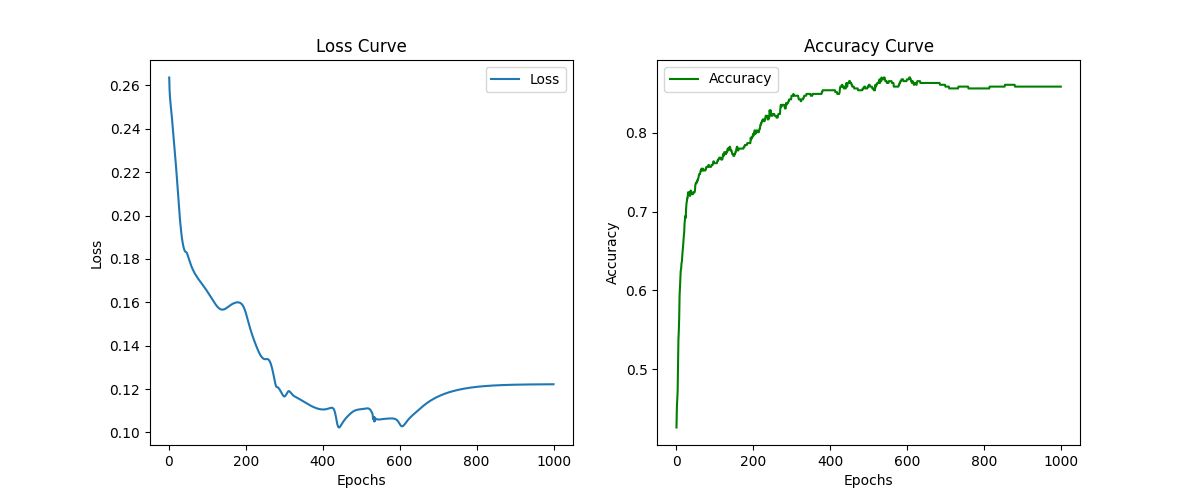
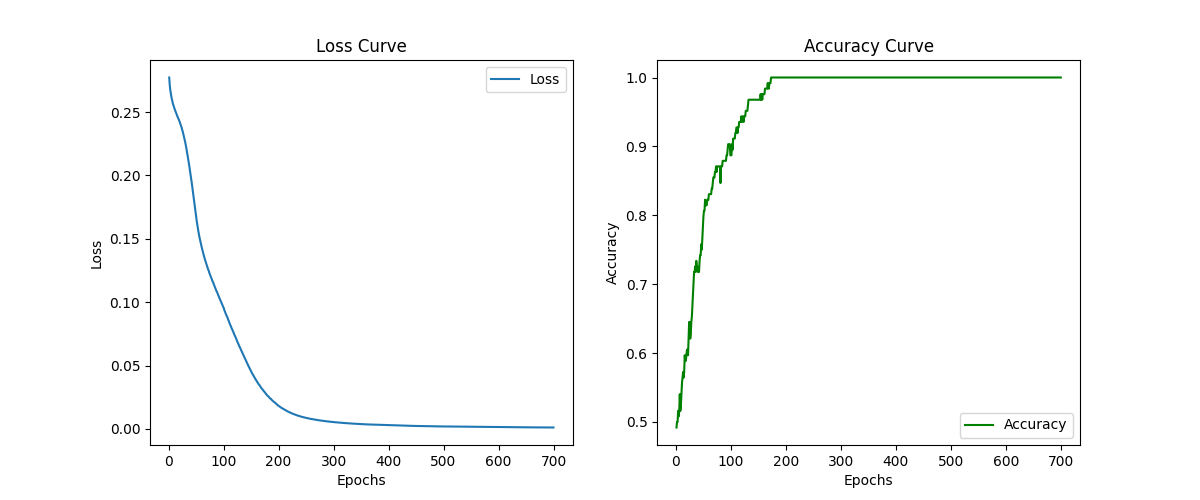
Added L1, L2 regularization, added batch and minibatch training (currently not working properly)

diff --git a/src/nn.py b/src/nn.py
@@ -2,17 +2,26 @@ import numpy as np
 from activations import *
 from layers import *
 from typing import List
+from typing import Optional, Literal, List
 
 class FF_Neural_Network:
 
     def __init__(
             self,
             input_size: int,
-            layers: List[Layer]
+            layers: List[Layer],
+            learning_rate: float,
+            regularized: Optional[Literal["Lasso", "Tikhonov"]] = None,
+            lambda_par: Optional[float] = None,
+            momentum_par: Optional[float] = None
             ):
 
         self.input_size = input_size
         self.layers = layers
+        self.learning_rate = learning_rate
+        self.regularized = regularized
+        self.lambda_par = lambda_par
+        self.momentum_par = momentum_par
 
         # if (self.input_size != self.layers[0].weights.shape):
         #     raise RuntimeError("The input layer size and the input size must coincide")
@@ -24,9 +33,11 @@ class FF_Neural_Network:
             input = out
         return out
     
-    def bwd_computation(self, output, pred, lambda_par = None, learning_rate = 0.02):
+    def bwd_computation(self, output, pred):
+        #IMPLEMENTA AMMODINO MOMENTUM
         delta_prev_layer = np.array([])
         prev_layer = None
+        past_grad = None
 
         for layer in reversed(self.layers):
             
@@ -38,18 +49,78 @@ class FF_Neural_Network:
                     layer.input = layer.input.reshape(1, layer.input.shape[0])
                 delta = np.dot(delta_prev_layer, prev_layer.weights.T) * layer.activation.derivative(layer.net)
 
-            if (lambda_par):
-                layer.weights += np.subtract((learning_rate * np.dot(layer.input.T, delta)), 2 * (lambda_par * layer.weights))
+            if (self.regularized == "Tikhonov"):
+                regularization = 2 * self.lambda_par * layer.weights
+                grad = np.subtract(self.learning_rate * np.dot(layer.input.T, delta), regularization)
+            elif (self.regularized == "Lasso"):
+                regularization = self.lambda_par * np.sign(layer.weights)
+                grad = np.subtract(self.learning_rate * np.dot(layer.input.T, delta), regularization)
             else:
-                layer.weights += learning_rate * np.dot(layer.input.T, delta)
-            layer.biases += learning_rate * np.sum(delta, axis=0, keepdims=True)
+                grad = self.learning_rate * np.dot(layer.input.T, delta)
+            
+            if layer.weights.shape != grad.shape:
+                print("Reshaping weights to match grad")
+                layer.weights = np.zeros_like(grad)
+
+            bias_update = self.learning_rate * np.sum(delta, axis=0, keepdims=True) / len(output)
+
+            # Ensure biases have the correct shape
+            if layer.biases.shape != bias_update.shape:
+                print(f"Reshaping biases: layer.biases.shape={layer.biases.shape}, bias_update.shape={bias_update.shape}")
+                layer.biases = np.zeros_like(bias_update)
+
+            if (self.momentum_par):
+                layer.weights += grad + self.momentum_par * ...
+            else:
+                layer.weights += grad / len(output)
+            layer.biases += bias_update
             
             delta_prev_layer = delta
             prev_layer = layer
     
-    def train(self, input, output):
-        for i in range(len(input)):
-            pred = self.fwd_computation(input[i])
-            self.bwd_computation(output[i], np.array(pred))
+    def train(self, input, output, mode: Optional[Literal["Online", "Batch", "Minibatch"]] = "Batch", mb_number = None):
+
+        #print(mode)
+        if (mode == 'Batch'):
+            #print("TRAINING BATCH")
+            pred = np.zeros(output.shape)
+            for i in range(len(input)):
+                pred[i] = self.fwd_computation(input[i])
+            self.bwd_computation(output, pred)
+        
+        elif (mode == 'Minibatch'):
+            print("TRAINING MINIBATCH")
+            if (mb_number == None):
+                raise RuntimeError("If you want to train using minibatch you need to specify the number of batches.")
+
+            # Shuffle input and output together to prevent sample ordering bias
+            indices = np.arange(len(input))
+            np.random.shuffle(indices)
+
+            input = input[indices]
+            output = output[indices]
+
+            input_batches = np.array_split(input, mb_number)
+            output_batches = np.array_split(output, mb_number)
+            for i, batch in enumerate(input_batches):
+                pred = np.zeros(batch.shape)
+                for j in range(len(batch)):
+                    pred[j] = self.fwd_computation(batch[j])
+                print(pred)
+                self.bwd_computation(output_batches[i], pred)
+        
+        elif (mode == "Online"):
+            #Shuffle input and output together to prevent sample ordering bias
+            indices = np.arange(len(input))
+            np.random.shuffle(indices)
+
+            input = input[indices]
+            output = output[indices]
+
+            for i in range(len(input)):
+                pred = self.fwd_computation(input[i])
+                self.bwd_computation(np.array([output[i]]), pred)
+        
+
 
 

diff --git a/src/test.py b/src/test.py
@@ -19,27 +19,37 @@ monk_1_test = os.path.join(script_dir, "../data/monks-1.test")
 # Read the data using the constructed path
 x, y =  read_monk_data(monk_1_train)
 x_test, y_true = read_monk_data(monk_1_test)
+x = feature_one_hot_encoding(x, [3,3,2,3,4,2])
+x_test = feature_one_hot_encoding(x_test, [3,3,2,3,4,2])
 
-nn = FF_Neural_Network(6, [Dense_layer(6, 5, Tanh), Dense_layer(5, 1, Logistic)])
+nn = FF_Neural_Network(17, [Dense_layer(17, 4, ReLU), Dense_layer(4, 1, Logistic)], 0.02)
 
 losses = []
 accuracies = []
 
-for epoch in range(1000):
-    nn.train(x, y)
+for epoch in range(700):
+    nn.train(x, y, 'Online')
     #print(f"Training done for epoch: {epoch}")
     y_out = np.array([])
     # print(x_test.shape)
-    for j in range(len(x_test)):
-        y_out = np.append(y_out, (nn.fwd_computation(x_test[j])))
+    for j in range(len(x)):
+        y_out = np.append(y_out, (nn.fwd_computation(x[j])))
         #print(y_out)
-    acc = binary_accuracy(y_true, y_out)
-    loss = mean_squared_error(y_true, y_out)
+    acc = binary_accuracy(y, y_out)
+    loss = mean_squared_error(y, y_out)
 
     losses.append(loss)
     accuracies.append(acc)
+    if (epoch % 100 == 0 or epoch == 699):
+        print(f"Accuracy at epoch {epoch + 1} = {acc:.4f}")
+        print(f"Loss at epoch: {epoch + 1} = {loss:.4f}")
 
-    print(f"Accuracy at epoch {epoch + 1} = {acc}")
-    print(f"Loss at epoch: {epoch + 1} = {loss}")
+prova = np.array([])
+for i in range(len(x_test)):
+    prova = np.append(prova, nn.fwd_computation(x_test[i]))
+accuracy = binary_accuracy(y_true, prova)
+prova_loss = mean_squared_error(y_true, prova)
+print(f"Test accuracy: {accuracy}")
+print(f"Test loss: {prova_loss}")
 
-provaplot(losses, accuracies, 1000)
+provaplot(losses, accuracies, 700)

diff --git a/src/metrics.py b/src/metrics.py
@@ -1,17 +1,4 @@
 import numpy as np
-# class MSE:
-
-#     def __init__(self):
-        
-#         self.loss = 0
-    
-#     def mse(self, out, pred):
-
-#         self.loss += (out -pred) ** 2
-    
-#     def compute_loss(self):
-
-#         return (self.loss / self.counter)
 
 def binary_accuracy(y_true, y_pred):
     # print(y_true.shape)
@@ -26,6 +13,7 @@ def binary_accuracy(y_true, y_pred):
     return correct_predictions / len(y_true)
 
 def squared_loss(y_true, y_pred):
+    #AGGIUNGI LAMBDA CAZZI ALLA LOSS
     if y_true.shape != y_pred.shape:
         raise ValueError("Shapes of y_true and y_pred must match.")
     return (y_true - y_pred) ** 2

diff --git a/src/utils/plot.py b/src/utils/plot.py
@@ -1,3 +1,5 @@
+import matplotlib
+matplotlib.use('TkAgg')
 import matplotlib.pyplot as plt
 import numpy as np
 
@@ -36,7 +38,7 @@ def plot_data_error(trError:np.ndarray, valError:np.ndarray, firstName:str, seco
     plt.show()
 
 def provaplot(losses, accuracies, epochs):
-    print(plt.get_backend())
+
     # Plot loss curve
     plt.figure(figsize=(12, 5))
     plt.subplot(1, 2, 1)
@@ -55,4 +57,5 @@ def provaplot(losses, accuracies, epochs):
     plt.legend()
 
     plt.savefig('training_plot.png')  # Save as PNG file
-    plt.close()  # Close the plot to avoid memory issues
+    #plt.show()
+    # plt.close()  # Close the plot to avoid memory issues

diff --git a/src/activations.py b/src/activations.py
@@ -27,9 +27,7 @@ class ReLU(ActivationFunction):
         return(np.maximum(0, input))
     
     def derivative(self, input):
-        if (input > 0):
-            return 1
-        return 0
+        return np.where(input > 0, 1, 0)
     
 class Leaky_ReLU(ActivationFunction):
     def fwd(self, input):
